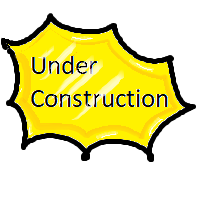
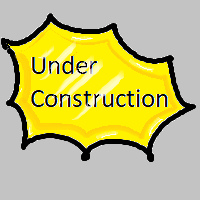
f

diff --git a/static/src/intro.js b/static/src/intro.js
@@ -24,11 +24,10 @@ function setup() {
 
 // Main draw loop
 function draw(){
-    webImg.mask(maskImg);
   background(100,100,120);
   translate(150,100);
-  //scale(0.7);
-  //rotate(radians(alpha));
+  scale(0.7);
+  rotate(radians(alpha));
   alpha = alpha + delta;
   if (alpha >40)
     { delta = -1.0; }
